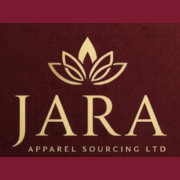
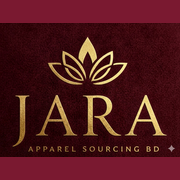
Rebrand: JARA Apparel Sourcing Ltd → JARA Apparel Sourcing BD
- New logo (new-logo-jara-sourcing-bd.jpeg) replaces logo.png everywhere
  (navbar, hero, footer)
- All text references updated: Ltd/Limited → BD
- Title, meta description, OpenGraph, Twitter Card updated
- Favicon, apple-touch-icon regenerated from new logo
- OG social sharing image regenerated with new company name
- Copyright footer updated

diff --git a/index-v3.html b/index-v3.html
@@ -3,8 +3,8 @@
 <head>
 <meta charset="UTF-8">
 <meta name="viewport" content="width=device-width, initial-scale=1.0">
-<title>JARA Apparel Sourcing Ltd — Global Reach. Exceptional Sourcing.</title>
-<meta name="description" content="JARA Apparel Sourcing Ltd — Your trusted partner in global apparel sourcing. Full package garment manufacturing, buying house in Bangladesh.">
+<title>JARA Apparel Sourcing BD — Global Reach. Exceptional Sourcing.</title>
+<meta name="description" content="JARA Apparel Sourcing BD — Your trusted partner in global apparel sourcing. Full package garment manufacturing, buying house in Bangladesh.">
 
 <!-- Favicon & Tab Icon -->
 <link rel="icon" type="image/x-icon" href="favicon.ico">
@@ -14,15 +14,15 @@
 
 <!-- OpenGraph (Facebook, LinkedIn, WhatsApp) -->
 <meta property="og:type" content="website">
-<meta property="og:title" content="JARA Apparel Sourcing Ltd — Global Reach. Exceptional Sourcing.">
+<meta property="og:title" content="JARA Apparel Sourcing BD — Global Reach. Exceptional Sourcing.">
 <meta property="og:description" content="Your trusted one-stop solution for complete garment manufacturing in Bangladesh. Full package clothing manufacturing from concept to delivery.">
 <meta property="og:image" content="https://jara-apparelsourcingbd.com/og-image.png">
 <meta property="og:url" content="https://jara-apparelsourcingbd.com/">
-<meta property="og:site_name" content="JARA Apparel Sourcing Ltd">
+<meta property="og:site_name" content="JARA Apparel Sourcing BD">
 
 <!-- Twitter Card -->
 <meta name="twitter:card" content="summary_large_image">
-<meta name="twitter:title" content="JARA Apparel Sourcing Ltd — Global Reach. Exceptional Sourcing.">
+<meta name="twitter:title" content="JARA Apparel Sourcing BD — Global Reach. Exceptional Sourcing.">
 <meta name="twitter:description" content="Your trusted one-stop solution for complete garment manufacturing in Bangladesh.">
 <meta name="twitter:image" content="https://jara-apparelsourcingbd.com/og-image.png">
 
@@ -469,7 +469,7 @@ ul{list-style:none}
   <div class="container">
     <div class="nav-inner">
       <a href="#" class="nav-logo">
-        <img src="logo.png" alt="JARA Apparel Sourcing Ltd" class="nav-logo-img">
+        <img src="new-logo-jara-sourcing-bd.jpeg" alt="JARA Apparel Sourcing BD" class="nav-logo-img">
       </a>
       <nav class="nav-menu">
         <a href="#about" class="nav-link">About Us</a>
@@ -499,7 +499,7 @@ ul{list-style:none}
 
   <div class="hero-content">
     <div class="hero-logo-wrap">
-      <img src="logo.png" alt="JARA Apparel Sourcing Ltd" class="hero-logo-img">
+      <img src="new-logo-jara-sourcing-bd.jpeg" alt="JARA Apparel Sourcing BD" class="hero-logo-img">
     </div>
     <div class="hero-eyebrow"><span>Clothing &amp; Accessories Manufacturers Network</span></div>
     <h1 class="hero-title">Your Trusted Partner in<br><em>Global Apparel Sourcing</em></h1>
@@ -548,7 +548,7 @@ ul{list-style:none}
         <h2>Get everything made<br><em>under one roof</em></h2>
         <p style="font-style:italic;color:var(--gold-light)">"Make your clothing procurement process simple, reliable and completely seamless with integrated management under one umbrella."</p>
         <p>Save time, cost and effort by eliminating the complexities of managing multiple suppliers. We handle the entire process for you—from sourcing and sampling to full-scale production management—ensuring a seamless experience for your apparel and accessories collection.</p>
-        <p>At JARA Apparel Sourcing Limited, we are committed to turning your vision into reality, serving as your trusted one-stop solution for complete garment manufacturing in Bangladesh.</p>
+        <p>At JARA Apparel Sourcing BD, we are committed to turning your vision into reality, serving as your trusted one-stop solution for complete garment manufacturing in Bangladesh.</p>
         <div class="about-features">
           <div class="about-feat"><div class="feat-dot"></div><span>End-to-end production management</span></div>
           <div class="about-feat"><div class="feat-dot"></div><span>100% quality guarantee</span></div>
@@ -840,7 +840,7 @@ ul{list-style:none}
   <div class="container">
     <div class="footer-grid">
       <div class="footer-brand">
-        <img src="logo.png" alt="JARA" style="height:55px;width:auto;align-self:flex-start;margin-bottom:0.5rem;filter:brightness(1.2)">
+        <img src="new-logo-jara-sourcing-bd.jpeg" alt="JARA" style="height:55px;width:auto;align-self:flex-start;margin-bottom:0.5rem;filter:brightness(1.2)">
         <div class="gold-div"></div>
         <p>Your trusted clothing &amp; accessories manufacturers network. Global Reach. Exceptional Sourcing. Full package garment solutions from concept to delivery.</p>
         <div class="social-links">
@@ -880,7 +880,7 @@ ul{list-style:none}
       </div>
     </div>
     <div class="footer-bottom">
-      <div class="footer-copyright">&copy; 2026 JARA Apparel Sourcing Ltd. All rights reserved.</div>
+      <div class="footer-copyright">&copy; 2026 JARA Apparel Sourcing BD. All rights reserved.</div>
       <div class="footer-legal">
         <a href="#">Privacy Policy</a>
         <a href="#">Terms</a>

diff --git a/index.html b/index.html
@@ -3,8 +3,8 @@
 <head>
 <meta charset="UTF-8">
 <meta name="viewport" content="width=device-width, initial-scale=1.0">
-<title>JARA Apparel Sourcing Ltd — Global Reach. Exceptional Sourcing.</title>
-<meta name="description" content="JARA Apparel Sourcing Ltd — Your trusted partner in global apparel sourcing. Full package garment manufacturing, buying house in Bangladesh.">
+<title>JARA Apparel Sourcing BD — Global Reach. Exceptional Sourcing.</title>
+<meta name="description" content="JARA Apparel Sourcing BD — Your trusted partner in global apparel sourcing. Full package garment manufacturing, buying house in Bangladesh.">
 
 <!-- Favicon & Tab Icon -->
 <link rel="icon" type="image/x-icon" href="favicon.ico">
@@ -14,15 +14,15 @@
 
 <!-- OpenGraph (Facebook, LinkedIn, WhatsApp) -->
 <meta property="og:type" content="website">
-<meta property="og:title" content="JARA Apparel Sourcing Ltd — Global Reach. Exceptional Sourcing.">
+<meta property="og:title" content="JARA Apparel Sourcing BD — Global Reach. Exceptional Sourcing.">
 <meta property="og:description" content="Your trusted one-stop solution for complete garment manufacturing in Bangladesh. Full package clothing manufacturing from concept to delivery.">
 <meta property="og:image" content="https://jara-apparelsourcingbd.com/og-image.png">
 <meta property="og:url" content="https://jara-apparelsourcingbd.com/">
-<meta property="og:site_name" content="JARA Apparel Sourcing Ltd">
+<meta property="og:site_name" content="JARA Apparel Sourcing BD">
 
 <!-- Twitter Card -->
 <meta name="twitter:card" content="summary_large_image">
-<meta name="twitter:title" content="JARA Apparel Sourcing Ltd — Global Reach. Exceptional Sourcing.">
+<meta name="twitter:title" content="JARA Apparel Sourcing BD — Global Reach. Exceptional Sourcing.">
 <meta name="twitter:description" content="Your trusted one-stop solution for complete garment manufacturing in Bangladesh.">
 <meta name="twitter:image" content="https://jara-apparelsourcingbd.com/og-image.png">
 
@@ -469,7 +469,7 @@ ul{list-style:none}
   <div class="container">
     <div class="nav-inner">
       <a href="#" class="nav-logo">
-        <img src="logo.png" alt="JARA Apparel Sourcing Ltd" class="nav-logo-img">
+        <img src="new-logo-jara-sourcing-bd.jpeg" alt="JARA Apparel Sourcing BD" class="nav-logo-img">
       </a>
       <nav class="nav-menu">
         <a href="#about" class="nav-link">About Us</a>
@@ -499,7 +499,7 @@ ul{list-style:none}
 
   <div class="hero-content">
     <div class="hero-logo-wrap">
-      <img src="logo.png" alt="JARA Apparel Sourcing Ltd" class="hero-logo-img">
+      <img src="new-logo-jara-sourcing-bd.jpeg" alt="JARA Apparel Sourcing BD" class="hero-logo-img">
     </div>
     <div class="hero-eyebrow"><span>Clothing &amp; Accessories Manufacturers Network</span></div>
     <h1 class="hero-title">Your Trusted Partner in<br><em>Global Apparel Sourcing</em></h1>
@@ -548,7 +548,7 @@ ul{list-style:none}
         <h2>Get everything made<br><em>under one roof</em></h2>
         <p style="font-style:italic;color:var(--gold-light)">"Make your clothing procurement process simple, reliable and completely seamless with integrated management under one umbrella."</p>
         <p>Save time, cost and effort by eliminating the complexities of managing multiple suppliers. We handle the entire process for you—from sourcing and sampling to full-scale production management—ensuring a seamless experience for your apparel and accessories collection.</p>
-        <p>At JARA Apparel Sourcing Limited, we are committed to turning your vision into reality, serving as your trusted one-stop solution for complete garment manufacturing in Bangladesh.</p>
+        <p>At JARA Apparel Sourcing BD, we are committed to turning your vision into reality, serving as your trusted one-stop solution for complete garment manufacturing in Bangladesh.</p>
         <div class="about-features">
           <div class="about-feat"><div class="feat-dot"></div><span>End-to-end production management</span></div>
           <div class="about-feat"><div class="feat-dot"></div><span>100% quality guarantee</span></div>
@@ -840,7 +840,7 @@ ul{list-style:none}
   <div class="container">
     <div class="footer-grid">
       <div class="footer-brand">
-        <img src="logo.png" alt="JARA" style="height:55px;width:auto;align-self:flex-start;margin-bottom:0.5rem;filter:brightness(1.2)">
+        <img src="new-logo-jara-sourcing-bd.jpeg" alt="JARA" style="height:55px;width:auto;align-self:flex-start;margin-bottom:0.5rem;filter:brightness(1.2)">
         <div class="gold-div"></div>
         <p>Your trusted clothing &amp; accessories manufacturers network. Global Reach. Exceptional Sourcing. Full package garment solutions from concept to delivery.</p>
         <div class="social-links">
@@ -880,7 +880,7 @@ ul{list-style:none}
       </div>
     </div>
     <div class="footer-bottom">
-      <div class="footer-copyright">&copy; 2026 JARA Apparel Sourcing Ltd. All rights reserved.</div>
+      <div class="footer-copyright">&copy; 2026 JARA Apparel Sourcing BD. All rights reserved.</div>
       <div class="footer-legal">
         <a href="#">Privacy Policy</a>
         <a href="#">Terms</a>
